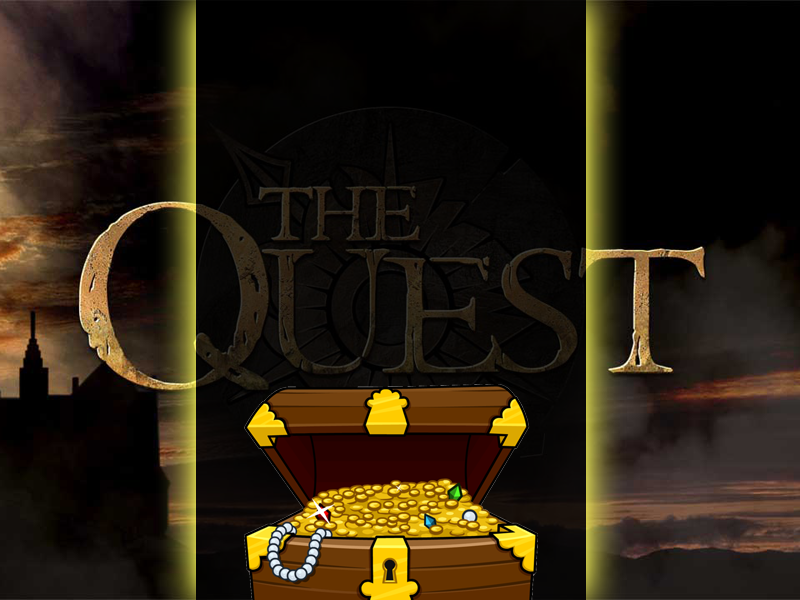
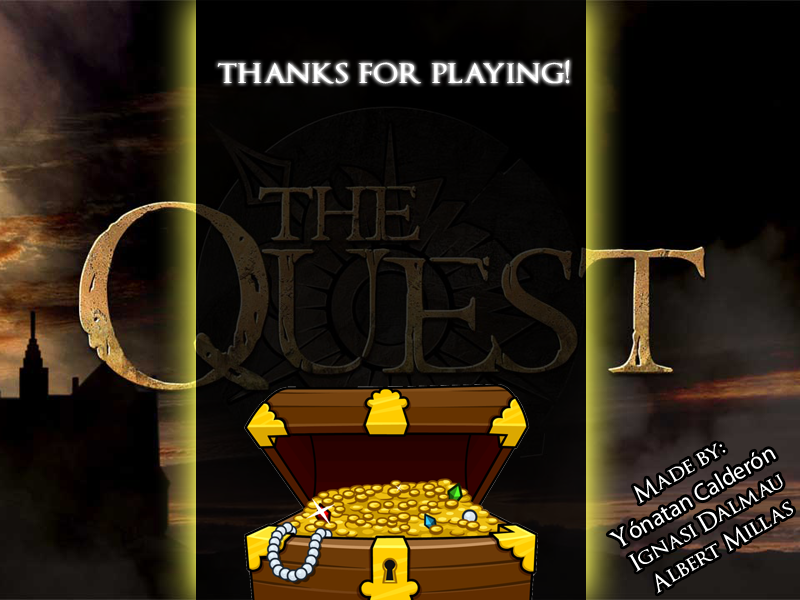
Drawing StateEND

Changed region(s): [[0.75, 0.72, 1.0, 0.99], [0.25, 0.09, 0.7188, 0.15]]

diff --git a/cGraphicsLayer.cpp b/cGraphicsLayer.cpp
@@ -102,6 +102,9 @@ void cGraphicsLayer::LoadData()
 	D3DXCreateTextureFromFileEx(g_pD3DDevice,"main.png",0,0,1,0,D3DFMT_UNKNOWN,
 								D3DPOOL_DEFAULT,D3DX_FILTER_NONE,D3DX_FILTER_NONE,
 								NULL,NULL,NULL,&texMain);
+	D3DXCreateTextureFromFileEx(g_pD3DDevice, "end.png", 0, 0, 1, 0, D3DFMT_UNKNOWN,
+		D3DPOOL_DEFAULT, D3DX_FILTER_NONE, D3DX_FILTER_NONE,
+		NULL, NULL, NULL, &texEnd);
 	D3DXCreateTextureFromFileEx(g_pD3DDevice, "buttons.png", 0, 0, 1, 0, D3DFMT_UNKNOWN,
 								D3DPOOL_DEFAULT, D3DX_FILTER_NONE, D3DX_FILTER_NONE,
 								NULL, NULL, NULL, &texButtons);
@@ -210,6 +213,11 @@ void cGraphicsLayer::UnLoadData()
 	{
 		texMain->Release();
 		texMain = NULL;
+	}
+	if (texEnd)
+	{
+		texEnd->Release();
+		texEnd = NULL;
 	}
 	if (texSlash)
 	{
@@ -381,6 +389,11 @@ bool cGraphicsLayer::Render(int state,cMouse *Mouse,cScene *Scene,cCritter *Crit
 								DrawUI(Critter);
 								//g_pSprite->Draw(texGame,NULL,NULL,&D3DXVECTOR3(0.0f,0.0f,0.0f),0xFFFFFFFF); //Graphic User Interface
 								break;
+				case STATE_END:
+						
+					g_pSprite->Draw(texEnd, NULL, NULL, &D3DXVECTOR3(0.0f, 0.0f, 0.0f), 0xFFFFFFFF);
+						
+					break;
 			}
 
 		g_pSprite->End();

diff --git a/cGraphicsLayer.h b/cGraphicsLayer.h
@@ -62,6 +62,7 @@ private:
 	LPDIRECT3DTEXTURE9 texCreation;
 	LPDIRECT3DTEXTURE9 texSlash;
 	LPDIRECT3DTEXTURE9 texBossAD;
+	LPDIRECT3DTEXTURE9 texEnd;
 
 	LPD3DXFONT font;
 };

diff --git a/cGame.cpp b/cGame.cpp
@@ -159,6 +159,9 @@ bool cGame::LoopProcess()
 						ProcessAttacks();
 						ProcessEvents();
 						break;
+
+		case STATE_END:
+			break;
 	}
 
 	return true;

diff --git a/cGame.h b/cGame.h
@@ -11,6 +11,7 @@
 #define STATE_MAIN		0
 #define STATE_CREATION	1
 #define STATE_GAME		2
+#define STATE_END		3
 
 class cGame
 {
